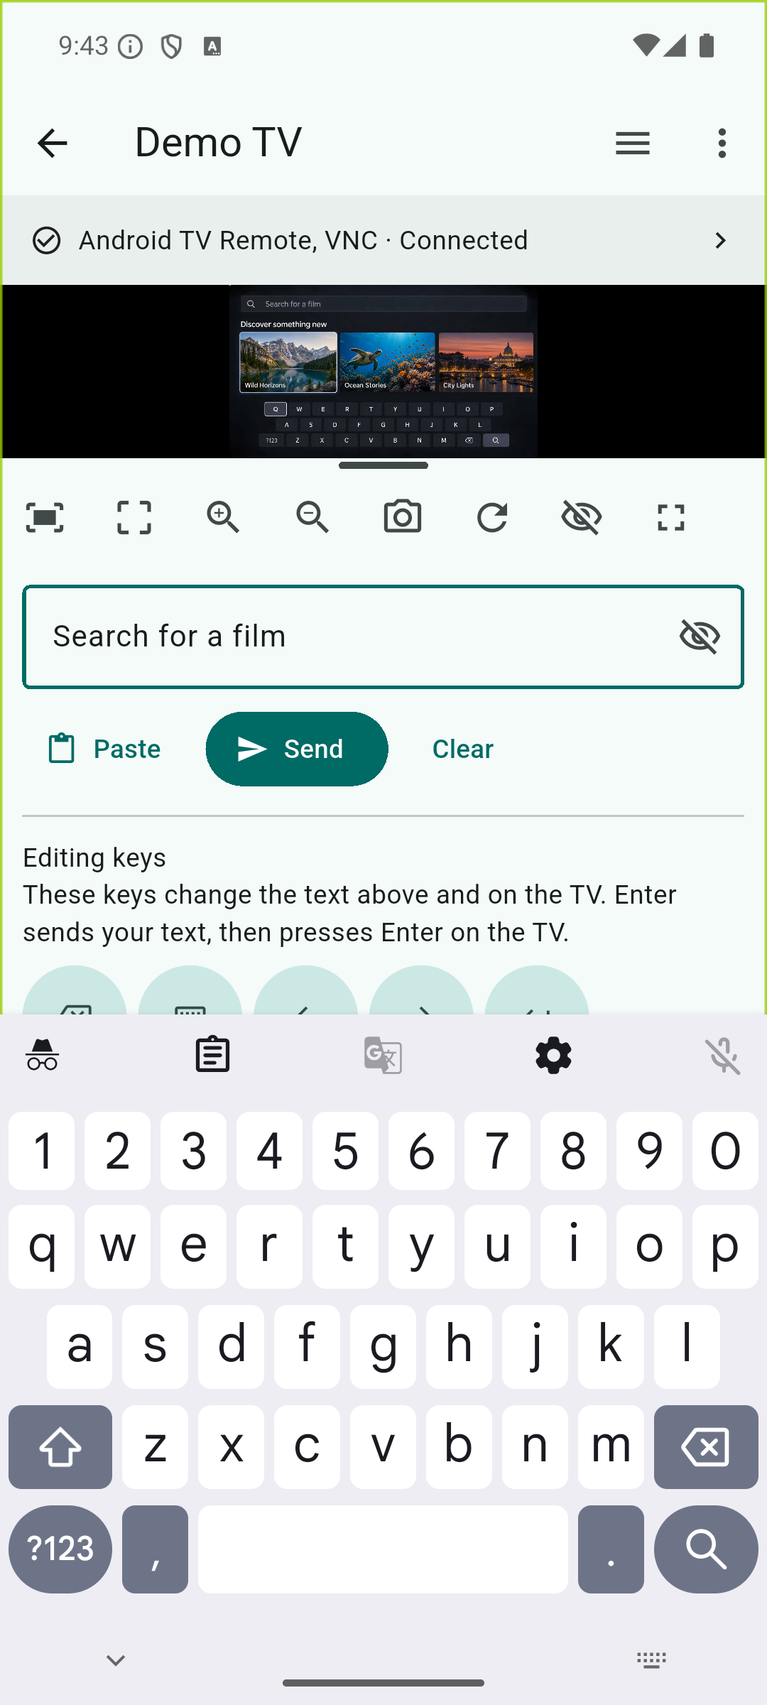
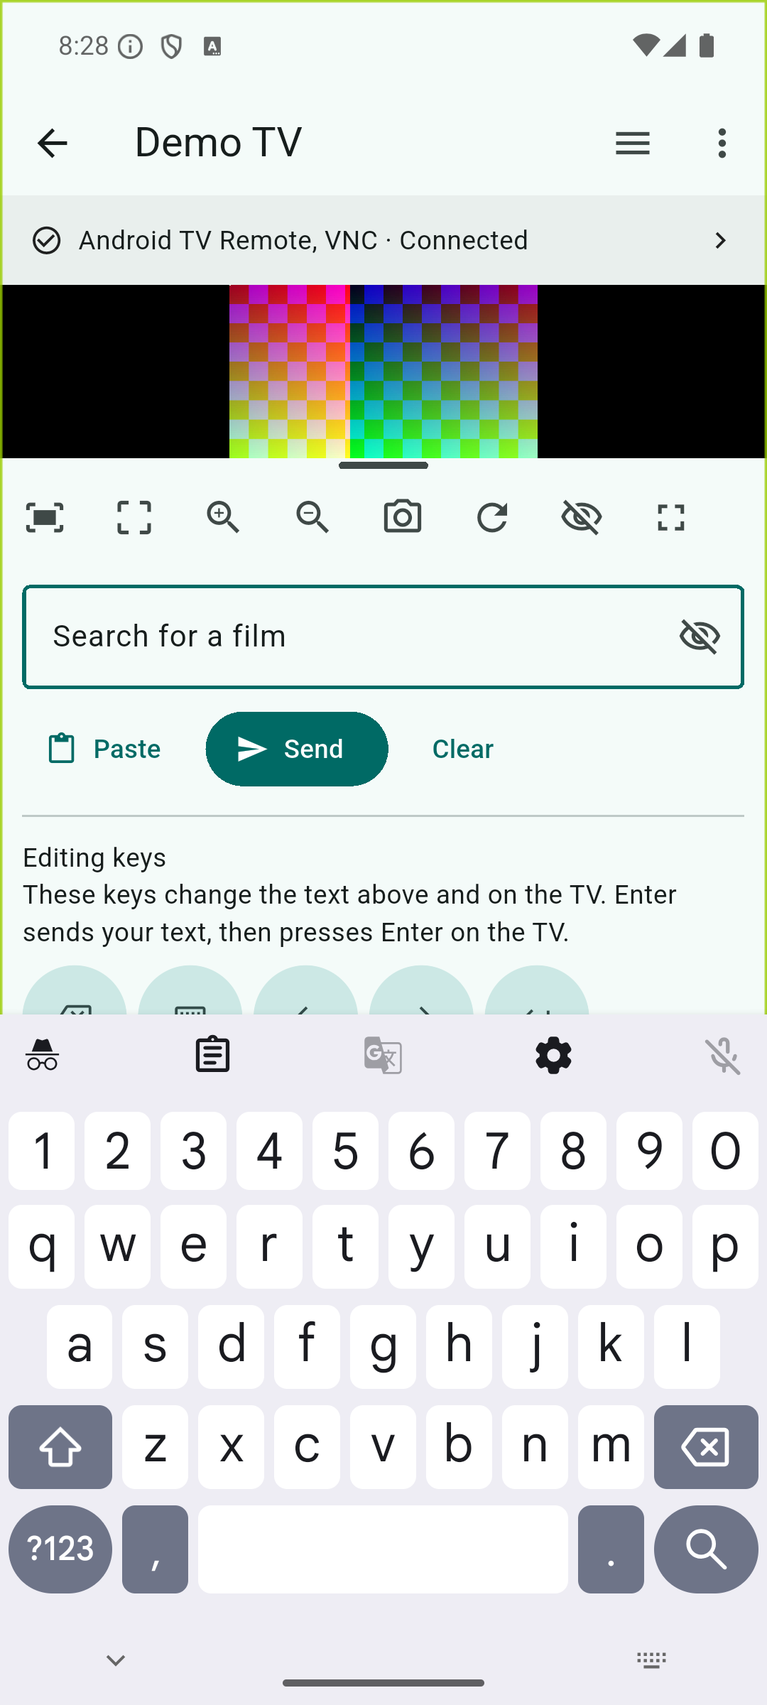
Expand TV VNC README with rationale, capabilities and screenshots

Changed region(s): [[0.275, 0.1562, 0.7028, 0.2812], [0.0917, 0.0, 0.1222, 0.0312]]

diff --git a/README.md b/README.md
@@ -1,143 +1,220 @@
 # TV VNC
 
-A local-network Android TV remote console. Flutter supplies the interface;
-Android TV Remote v2 and vendor APIs supply native controls; RFB supplies the
-screen and pointer. Viewing and control have independent lifecycles.
+TV VNC turns an Android phone or tablet into a viewer and remote control for an
+Android TV on the same network: see the screen the TV shares, press familiar
+remote buttons, and type with your phone or tablet keyboard. Some Sony TVs also
+provide their own remote commands, input lists and status information.
 
-Phase 0 is **local-network only**. OpenVPN, WireGuard, profile imports and VPN
-recovery are outside this phase. Device addresses, passwords, MACs and installed
-apps are discovered or configured per device, never compiled into the app.
+> **Development preview — Phase 0, local network only.** There is no public
+> release yet. Features depend on the TV and its services, and compatibility
+> testing is still in progress. This phase does not cover built-in VPN setup or
+> testing from another location. [Release progress](https://github.com/amersheeny/tvvnc/issues/1).
 
-No analytics, advertising, relay or cloud telemetry. Secrets remain in Android
-Keystore-backed storage and are excluded from diagnostic exports.
+## Why TV VNC?
 
-Android application ID: `com.asheeny.tvvnc`. This is a separate installation
-from the early `dev.tvvnc.tv_vnc` test app; Android does not transfer that app's
-saved TVs or Keystore credentials automatically. Keep the old installation
-until setup of the new one is complete.
+Talking someone through a television over the phone turns into a guessing game:
+which input is selected, what is highlighted, what happened after that last
+button press? TV VNC is being built so the person helping can see the TV and
+press the buttons themselves, instead of describing them. For now that means
+being on the same network as the TV.
 
-## Implementation status
+It is for the times someone else needs a hand with their TV — a parent, an older
+relative, a friend — and describing a menu over the phone is not working. Anyone
+can get lost in a TV settings menu; the point is to make help easier to give.
+This is a TV-support project, not a remote PC administration tool. Use it only
+with the TV owner's knowledge and permission.
 
-This is an implementation under validation, not a completed hardware-qualified
-release. The Android APK builds; native protocol/security tests and local RFB
-integration have run. Pairing, actuation, voice, wake and performance on the Sony
-reference television remain separate acceptance checks. See the implementation
-ledger and hardware checklist in this repository's documentation.
+The design is **a remote with a view**. VNC supplies the picture while native TV
+protocols supply remote controls. These connections are independent: controls
+can remain available when screen sharing is unavailable.
 
-The application has saved-TV setup, a physical-remote layout, all discovered
-buttons, touchpad/direct-touch modes, a native viewer, keyboard, inputs, apps,
-favorites, shortcuts, layout customization and diagnostics. TV functions are
-attempted through a capability router; a viewer failure does not remove native
-remote controls. ADB is not a runtime dependency.
+## Screenshots
 
-## Local development
+These are screenshots of the actual Android app connected to a local test
+service, not to a physical TV. The coloured preview is a test pattern. They show
+what the app looks like, not which TVs it works with.
 
-The current checkout is `/Users/amsh/worktrees/tvVNC/worktree`. The native
-control library's source is maintained separately at
-`/Users/amsh/worktrees/tvVNC-remote-core/worktree`. The socket-read repair is
-maintained at `/Users/amsh/worktrees/tvVNC-libvncserver/worktree`. Both are pinned
-through Git submodules with development-only local URLs. Fetchable public
-fork URLs are required before a clean-machine open-source release; no public
-repository or branch has been published by this task.
+<p>
+  <a href="docs/images/remote.png"><img src="docs/images/remote.png" width="230" alt="Remote screen for Demo TV with a test-pattern preview, D-pad, volume, Back, Home, Options, Input and a power icon"></a>
+  <a href="docs/images/keyboard.png"><img src="docs/images/keyboard.png" width="230" alt="Keyboard screen showing a text field prefilled with 'Search for a film', the TV test-pattern preview and the phone keyboard"></a>
+  <a href="docs/images/all-buttons.png"><img src="docs/images/all-buttons.png" width="230" alt="All buttons screen with a search field, filters for Sony and for Android TV Remote, and a list of directional and navigation buttons"></a>
+</p>
 
-```sh
-cd /Users/amsh/worktrees/tvVNC/worktree
-git submodule update --init --recursive
-git submodule status --recursive
-git ls-tree HEAD native/androidtv-remote native/libvncserver native/libjpeg-turbo
-git -C /Users/amsh/worktrees/tvVNC/worktree/native/androidtv-remote rev-parse HEAD
-git -C /Users/amsh/worktrees/tvVNC/worktree/native/androidtv-remote status --porcelain
-git -C /Users/amsh/worktrees/tvVNC/worktree/native/libvncserver rev-parse HEAD
-git -C /Users/amsh/worktrees/tvVNC/worktree/native/libvncserver status --porcelain
-flutter pub get
-dart run pigeon --input /Users/amsh/worktrees/tvVNC/worktree/pigeons/tv_api.dart
-env ANDROID_HOME=/Users/amsh/Library/Android/sdk flutter build apk --debug --target-platform android-arm64
-```
+- **Remote:** familiar controls beside the screen preview.
+- **Keyboard:** the text already in the TV's field arrives on your phone; edit it there and the changes appear as you type — when the TV shares that field.
+- **All buttons:** search or filter the command list, including standard navigation buttons.
 
-Before gathering build evidence, compare each dependency HEAD to its recorded
-gitlink and confirm its working tree is clean. Capture these reporting commands
-alongside that build's log. They are not an installed hook or a new build gate.
+Select an image to view it at full size. [Screenshot provenance](docs/images/README.md).
 
-The debug APK is produced at
-`/Users/amsh/worktrees/tvVNC/worktree/build/app/outputs/flutter-apk/app-debug.apk`.
-Debug signing is for local development; release signing and publication remain
-delivery work. Minimum controller Android version is API 26; target/compile SDK
-is 37. No assumption is made about the TV matching the controller's OS version.
+## Capabilities
 
-## Setup
+These features are implemented; their availability and behaviour depend on the
+TV, the current app/input, permissions and connected services.
 
-1. Put the phone and TV on the same private LAN, then find a TV or enter its
-   address. Runtime network permission is requested when needed.
-2. Enter the existing VNC password and port in the TV's settings. Keep the TV's
-   existing droidVNC-NG capture session; this app does not require replacing it.
-3. Pair Android TV Remote using the code displayed on the TV. Each saved TV gets
-   a non-exportable Android Keystore identity; successful pairing is retained.
-4. For Sony-specific controls, enter the TV's pre-shared key, or explicitly start
-   PIN registration. Command names, IRCC codes, input URIs and app catalogs come
-   from the television, not a hardcoded device list.
-5. Store the actual Wi-Fi/Ethernet MAC for Wake-on-LAN, not a Bluetooth MAC. WOL
-   remains marked as an untested mechanism until standby-wake is established on
-   the hardware. The TV may require its Remote start/network standby settings.
+- **Physical-style remote:** D-pad and OK, Back, Home, Options, Input, Guide, Info, volume/mute, channel and media controls. Real key-down/key-up holds where the transport supports them.
+- **Extra buttons:** Searchable **All buttons**, including Sony-reported IRCC commands such as number, colour, subtitle/audio and HDMI-CEC controls when supplied by the TV; Android key-code entry is also available.
+- **Screen viewer:** Live VNC preview, portrait/landscape and fullscreen, pinch zoom/pan, fit and 1:1 views, local screenshots, reconnect, and a thin draggable preview-height handle. The viewer can be hidden while controls remain available.
+- **Navigation modes:** Remote, Touchpad and Direct touch, selected from the remote's three-dot menu. Direct touch maps the displayed picture to framebuffer coordinates.
+- **Keyboard:** Automatic native editor prefill, live typing/deletion, cursor changes and paste when Android TV Remote supplies the editor. Search/Done and TV-defined actions follow its metadata. A local text draft is available when live editing is unavailable.
+- **Inputs and apps:** Detected source names/labels and direct switching where exposed; available app listings/icons, launch, deep links, favourites and recents. No assumption that a particular streaming app is installed.
+- **Personalisation:** Saved TVs, reordered remote controls and local **Shortcuts** made from semantic actions such as Wake, wait for TV, Home, input and app launch.
+- **Voice:** Hold-to-talk streaming when the authenticated Android TV Remote service negotiates voice support. Microphone permission is requested when needed; hardware acceptance is still pending.
+- **Power and recovery:** Capability-based TV power commands and Wake-on-LAN, observed-state wake progress and independent transport reconnects. Standby/network settings determine whether a TV can be woken; successful standby wake is not yet established on the reference TV.
+- **Status and diagnostics:** Available power/input/app/volume/mute state, transport status, capability refresh, connection tests and a diagnostic report that excludes secrets, editor text and screen pixels.
 
-Direct touch must be checked against the TV's displayed picture. Two fingers
-pan/zoom locally; a tap sends a balanced pointer press/release. Native Android
-holds use START_LONG/END_LONG; taps use SHORT. Sony IRCC-only controls are not
-misrepresented as genuine key holds.
+An unavailable button is not proof that the TV can never support it: a service
+may need pairing, permission or reconnection. Nor does sending a command prove
+the television performed it. Commands with uncertain delivery are not blindly
+replayed through another transport.
 
-Compose text stays local until Send. Live edit is explicit and tied to the TV
-editor context. Unconfirmed text stays in the compose bar. Private drafts clear
-on backgrounding, editor changes and target changes. VNC clipboard copying is a
-separate action from pasting on the TV: a successful socket write is not proof
-that the field was edited. Do not assume droidVNC-NG's clipboard/UI-thread
-ordering provides an insertion acknowledgement.
-Ordinary Compose drafts are retained only in memory, by TV/application, when
-leaving the Keyboard or backgrounding. They are never sent automatically or
-written to persistent storage. TV editing keys are separate from local draft
-actions. Deleting a shortcut offers Undo without recreating a forgotten TV.
-Revealing text that was marked private does not make it an ordinary draft:
-it remains excluded from the draft cache and TV clipboard, with keyboard
-suggestions/learning disabled, until cleared or emptied. Leaving its context
-clears it. Undo messages identify the shortcut, original TV and deletion order;
-Dismiss closes the current message without restoring its shortcut.
+## How it works
 
-Voice is attempted only when the authenticated service negotiates VOICE. Granting
-microphone permission does not start recording; hold again. Audio is PCM16 mono
-8 kHz, streamed in bounded chunks and not saved. Recognition is performed by the
-TV's existing assistant; its own network behavior is unchanged.
+The Flutter interface expresses TV operations; a native capability router
+chooses an available implementation. Routing does not live in individual buttons.
 
-## Safety and limitations
+| Component | Main responsibility |
+| --- | --- |
+| Android TV Remote v2 | TLS pairing, native keys and holds, focused-editor text, app/deep-link launch, state and negotiated voice. |
+| Sony BRAVIA REST / IRCC-IP | TV-reported remote commands, available inputs/apps and vendor state/control APIs, subject to authentication and model support. |
+| RFB / LibVNCClient | The screen and pointer, with keyboard/text fallbacks. Native decoding runs outside Flutter's UI thread. |
+| Wake-on-LAN | A wake attempt using the saved network MAC where the TV and network support it; not a guarantee of power-on. |
 
-Sessions are foreground-only. Backgrounding closes connections and stops input.
-Disconnect suspends retries until Connect; deliberate Turn off preserves a
-separate no-wake intent. Power On uses discrete mechanisms and observable
-readiness. Shortcuts stop on cancellation or an unconfirmed required step;
-earlier steps can already have taken effect.
-An unknown power state is not treated as proof of standby after a toggle.
+Sony commands are discovered from the TV's own remote-control catalogue rather
+than relying only on hardcoded IRCC codes. VNC credentials, Android Remote
+pairing and Sony authentication are **separate**. Seeing a VNC picture does not
+mean native remote pairing has happened.
 
-The VNC quality controller measures end-to-end message-processing time, including
-network waiting, and adapts its quality level within 2–6. It is not a CPU-only
-decode benchmark. The maintained client repair fixes partial-buffer readiness
-and cumulative idle timeout accounting, without increasing timeout values.
-Screenshots copy directly into an Android bitmap: the maximum framebuffer and
-snapshot together occupy 128 MiB, plus encoder working memory and other app
-allocations. Decoding still waits during that single copy.
+ADB is not needed for everyday use. Phase 0 includes neither an integrated VPN
+engine nor a TV companion APK. Future private-network access is not restricted
+to OpenVPN; no OpenVPN, WireGuard or other profile importer is implemented here.
 
-Classic VNC Authentication uses only the first eight password bytes and does not
-encrypt screen traffic. Sony HTTP is also a LAN protocol. Destination validation
-and redirect refusal confine these connections; they do not turn them into TLS.
-Android Remote certificates are pinned. Diagnostic exports exclude passwords,
-cookies, private keys, pairing codes, editor contents and framebuffer pixels.
-Profile metadata and credentials are encrypted; backup/device-transfer exclusions
-cover private app storage. Explicit screenshots are local files; the phone's
-separate gallery/backup settings still apply to exported images.
+## Requirements and setup
 
-Protected content can be black. Black pixels alone do not prove DRM or a stalled
-capture. HDMI capture needs an actual check on the TV; no protection is bypassed.
-The viewing interface is separate from command routing so a future private
-external feed can be added without replacing native controls.
+TV VNC runs on an **Android phone or tablet, Android 8.0 / API 26 or newer**.
+The reference television is a **Sony KD-55AF8 running Android 9**; it is a test
+target, not a hardcoded device restriction or a claim that all Android TVs work.
 
-An unplugged TV, offline router, disconnected network hardware or firmware frozen
-before networking cannot be repaired by this software alone. No smart-plug or
-hard-power-cycle integration is included in Phase 0. No companion is installed
-by this app: a companion is justified only by a demonstrated standard-service
-gap, not by avoiding the Sony/Android APIs already available.
+Initial setup can require someone at the TV to grant permissions and read
+pairing codes.
+
+1. **Connect both devices to a trusted local network.** Allow local-network
+   access on the controller if Android requests it. Use **Find TVs**, or
+   **Enter address** with the TV's private IP/local hostname. Ports have their
+   own fields under Settings.
+2. **Enable screen sharing on the TV.** Use an existing
+   [droidVNC-NG](https://github.com/bk138/droidVNC-NG) installation or another
+   compatible RFB server. Start capture and grant the required TV-side screen
+   sharing permissions. For droidVNC-NG input/pointer control, enable its
+   Accessibility service. Enter its VNC port and password in the saved TV.
+3. **Pair native controls separately.** Select **Pair with your TV** and enter
+   the code displayed by Android TV Remote Service. Pairing is saved securely.
+   An open service port alone is not treated as proof of v2 capability.
+4. **Enable Sony controls if available.** Configure the TV's IP-control
+   authentication, then supply its pre-shared key or use the app's explicit
+   Sony PIN registration flow. Available commands, inputs and apps come from
+   the TV.
+5. **Configure wake only if supported.** Save the TV's Wi-Fi/Ethernet MAC, not a
+   Bluetooth MAC. Check its Remote start/network standby settings, and test
+   waking it before relying on unattended support.
+
+For Direct touch, first check that a tap matches the intended location on the
+TV. Two-finger pan/zoom changes the local view. Sony IRCC-only commands are not
+presented as genuine key holds.
+
+## Using the keyboard
+
+Focus a text field on the TV, then open **Keyboard** in TV VNC. When the native
+service supplies that editor, its existing text appears automatically and edits
+are sent as you type — **Send is not required for live mirroring**. Backspace,
+cursor movement and paste operate on that bound editor.
+
+Normally, **Send** transmits the current text without pressing Enter. Use it to
+send a local draft when live editing is unavailable. When a live TV field defines
+a custom action, that in-page button instead performs the action after sending
+pending text. It shows the TV's action label, or keeps **Send** if the label is
+blank. The custom label does not appear on the phone keyboard's own key.
+
+The phone's action key follows the TV's standard Search/Done/Next metadata and
+sends pending text before invoking the corresponding TV action. If focus
+changes or delivery is uncertain, the app keeps the draft and asks you to load
+the TV's text or confirm replacement instead of silently writing into a
+different field. The top-left back arrow leaves the phone's Keyboard page; it
+is distinct from pressing Back on the TV.
+
+VNC alone does not provide the same native editor synchronisation. When no
+native field is available, a draft stays local until sent using an available
+text transport. Copying text to the TV clipboard and asking the TV to paste are
+separate operations; a socket write is not an insertion acknowledgement.
+
+TV-declared password fields start masked. Text marked private stays protected
+after reveal, is excluded from the ordinary draft cache and TV clipboard, and
+has keyboard suggestions/learning disabled. Protected local text clears when
+leaving its context or backgrounding; it may be fetched and masked again when
+returning to the same TV field. Ordinary drafts are kept only in memory, by
+TV/application, not written to persistent storage.
+
+## Privacy and limitations
+
+- **Owner permission:** get permission from the TV owner before using TV VNC.
+  The app does not add an owner-approval prompt for each later command. Pairing
+  and screen-sharing permissions are separate checks for access to the device.
+- **Private connections, no relay:** no advertising, analytics or cloud telemetry
+  in the app. Do not expose VNC or Sony control ports to the public internet.
+- **Not every local protocol is encrypted:** Android Remote uses pinned TLS
+  certificates. Classic VNC screen traffic and Sony HTTP are not encrypted.
+  Classic VNC authentication uses only the first eight password bytes.
+- **Local credentials:** saved profiles and secrets are encrypted using Android
+  Keystore-backed storage; backup/device-transfer exclusions cover private app
+  storage. Diagnostic exports omit passwords, cookies, pairing codes/private
+  keys, editor contents and framebuffer pixels.
+- **Explicit exports:** screenshots are saved on the controller. Its separate
+  gallery/backup settings may copy exported images elsewhere.
+- **Voice is not an offline-assistant promise:** TV VNC does not save microphone
+  audio; the TV's existing assistant may use its own online services.
+- **Capture has limits:** protected/DRM content can be black. Black pixels alone
+  do not identify DRM or a stalled stream. HDMI capture varies by TV and has
+  not been established on the reference device. No protection is bypassed.
+- **Foreground operation:** backgrounding stops input and closes sessions;
+  returning reconnects an intended active session. Explicit Disconnect pauses
+  retries; it is not a TV power command. Power commands target the TV.
+- **Physical failures remain physical:** an unplugged TV, offline router, lost
+  network link or firmware frozen before networking cannot be repaired by this
+  app alone. No smart-plug/hard-power-cycle integration is included.
+
+## Project status
+
+This is active development, not a universal replacement for every physical
+remote. An earlier build was exercised on the reference Sony with screen
+viewing, native pairing/navigation, live search-field typing/backspace and
+volume/mute. Newer keyboard edge cases have additional emulator/protocol tests;
+that is not equivalent to repeating them on the physical TV.
+
+Voice, standby wake, HDMI capture, broad device compatibility and the full
+recovery/performance matrix still need real-device evidence.
+[Release progress](https://github.com/amersheeny/tvvnc/issues/1) tracks publishing
+the source/dependency forks, release signing, further validation and Play submission.
+
+## Development and contributing
+
+Start with the [development notes](docs/development.md). **Fresh-clone builds
+are not ready yet:** two native submodule URLs still refer to development-only
+local repositories. Public fork publication must be completed first.
+
+Useful contributions include reproducible compatibility reports, native
+protocol tests, accessibility checks and safer recovery behaviour. Include the
+TV/controller models, OS and service versions, the action attempted and which
+transports were connected. Remove credentials, pairing codes and personal
+screen contents from reports. Please do not attach real passwords or private keys.
+
+## License and acknowledgements
+
+TV VNC is **GPL-3.0-or-later**. See [LICENSE](LICENSE) and the dependency and
+modification notices in [NOTICE](NOTICE).
+
+The app builds on [LibVNCClient / LibVNCServer](https://github.com/LibVNC/libvncserver),
+[libjpeg-turbo](https://github.com/libjpeg-turbo/libjpeg-turbo),
+a maintained Android Remote library derived from
+[ScreenCast](https://github.com/ddagunts/ScreenCast), and protocol schemas from
+[androidtvremote2](https://github.com/tronikos/androidtvremote2).
+[droidVNC-NG](https://github.com/bk138/droidVNC-NG) is a TV-side server used for
+screen sharing, not a bundled component or the application's only control path.

diff --git a/docs/images/README.md b/docs/images/README.md
@@ -1,27 +1,21 @@
 # Screenshot provenance
 
-These are unmodified captures of the actual TV VNC Android app. The TV preview
-within the app displays AI-generated illustrative content; the surrounding
-phone interface was not generated or retouched. They were captured on 2026-09-23
-from the headed Android 15 controller emulator at 1080 × 2400, using application
-checkpoint `163ef6d` and native Android Remote library checkpoint `a17e093`.
+These are unmodified captures of the actual TV VNC Android app, not mockups or
+generated artwork. They were captured on 2026-09-23 from the headed Android 15
+controller emulator at 1080 × 2400, using application checkpoint `163ef6d` and
+native Android Remote library checkpoint `a17e093`.
 
 The controller was connected only to the development protocol fixtures. The
-saved profile name **Demo TV** and the **Search for a film** text are synthetic.
-The [illustrative TV screen](tv-screen-illustration.png) was generated with the
-built-in image-generation tool using [this prompt](tv-screen-prompt.txt), then
-streamed at its native 1672 × 941 resolution by the local RFB fixture. It is a
-fictional streaming/search interface, not evidence of a particular TV's UI or
-an installed application. No physical TV content was captured.
+saved profile name **Demo TV**, the **Search for a film** text and the coloured
+RFB test pattern are synthetic. No physical TV content was captured.
 
 | Image | Content checked before adding to Git |
 | --- | --- |
-| [Remote](remote.png) | Demo name, illustrative TV preview and app controls. No real address/MAC, account, password, pairing code or private TV content. |
-| [Keyboard](keyboard.png) | Synthetic prefilled text, illustrative TV search screen and the controller keyboard. No real typed content, credentials, pairing code or user clipboard contents. |
+| [Remote](remote.png) | Demo name, synthetic preview and app controls. No real address/MAC, account, password, pairing code or private TV content. |
+| [Keyboard](keyboard.png) | Synthetic prefilled text and the controller keyboard. No real typed content, credentials, pairing code or user clipboard contents. |
 | [All buttons](all-buttons.png) | App-provided control names and filters only. No private device or account information. |
 
-The captures illustrate the app UI and actual viewer scaling. The TV picture is
-a static illustration: it does not prove text mirroring or remote interaction.
-They do not establish physical-TV compatibility, voice support, HDMI/DRM capture
-or power/wake success. The temporary demo profile name was restored after the
-capture flow. Raw test logs and failure captures are not included in this gallery.
+The captures illustrate the UI. They do not establish physical-TV compatibility,
+voice support, HDMI/DRM capture or power/wake success. The temporary demo profile
+name was restored after the capture flow. Raw test logs and failure captures
+are not included in this documentation gallery.
